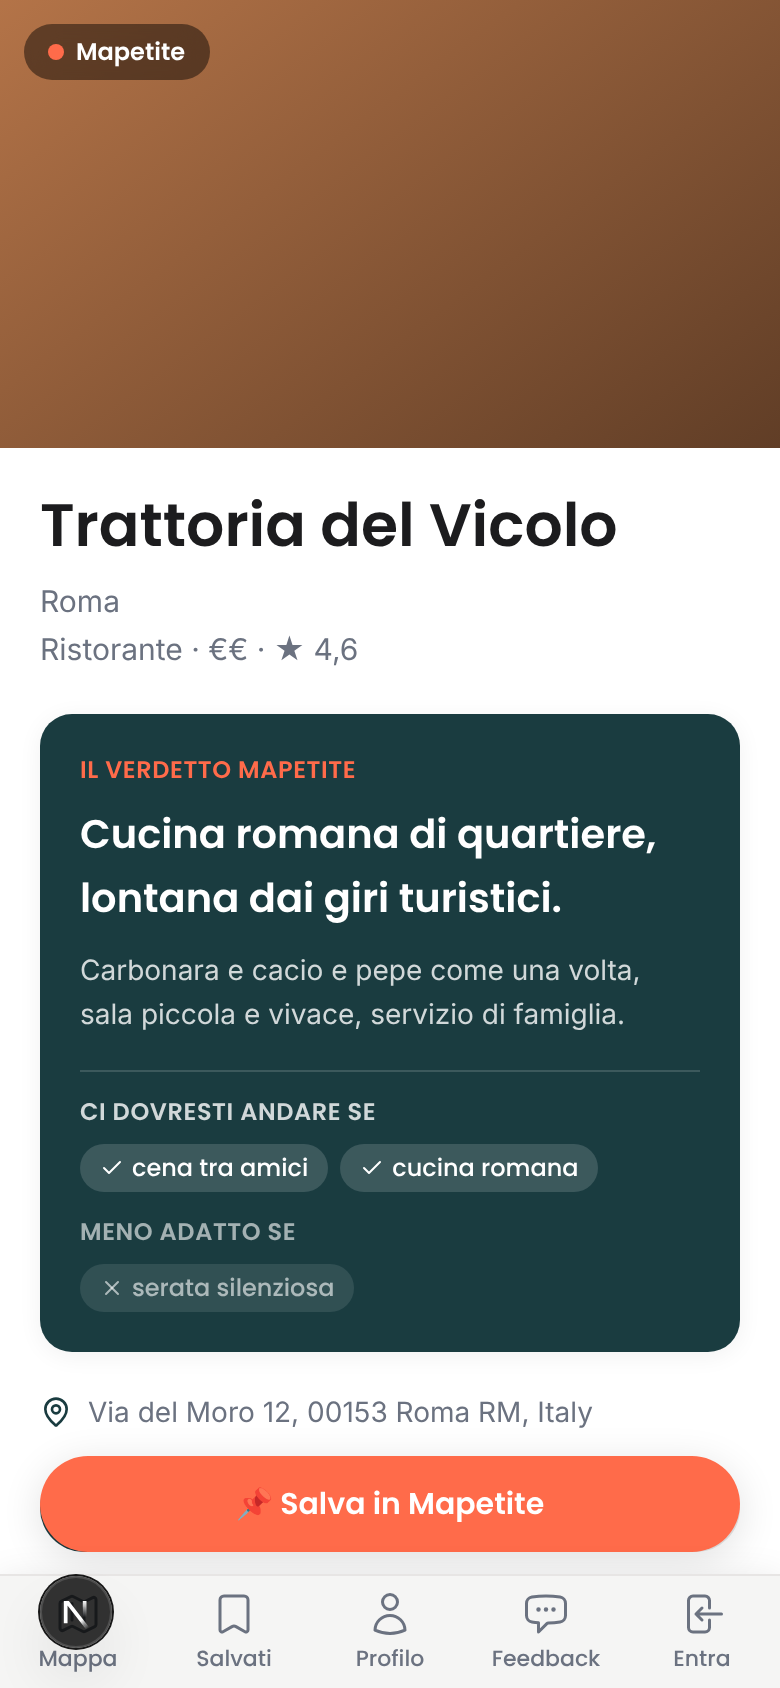
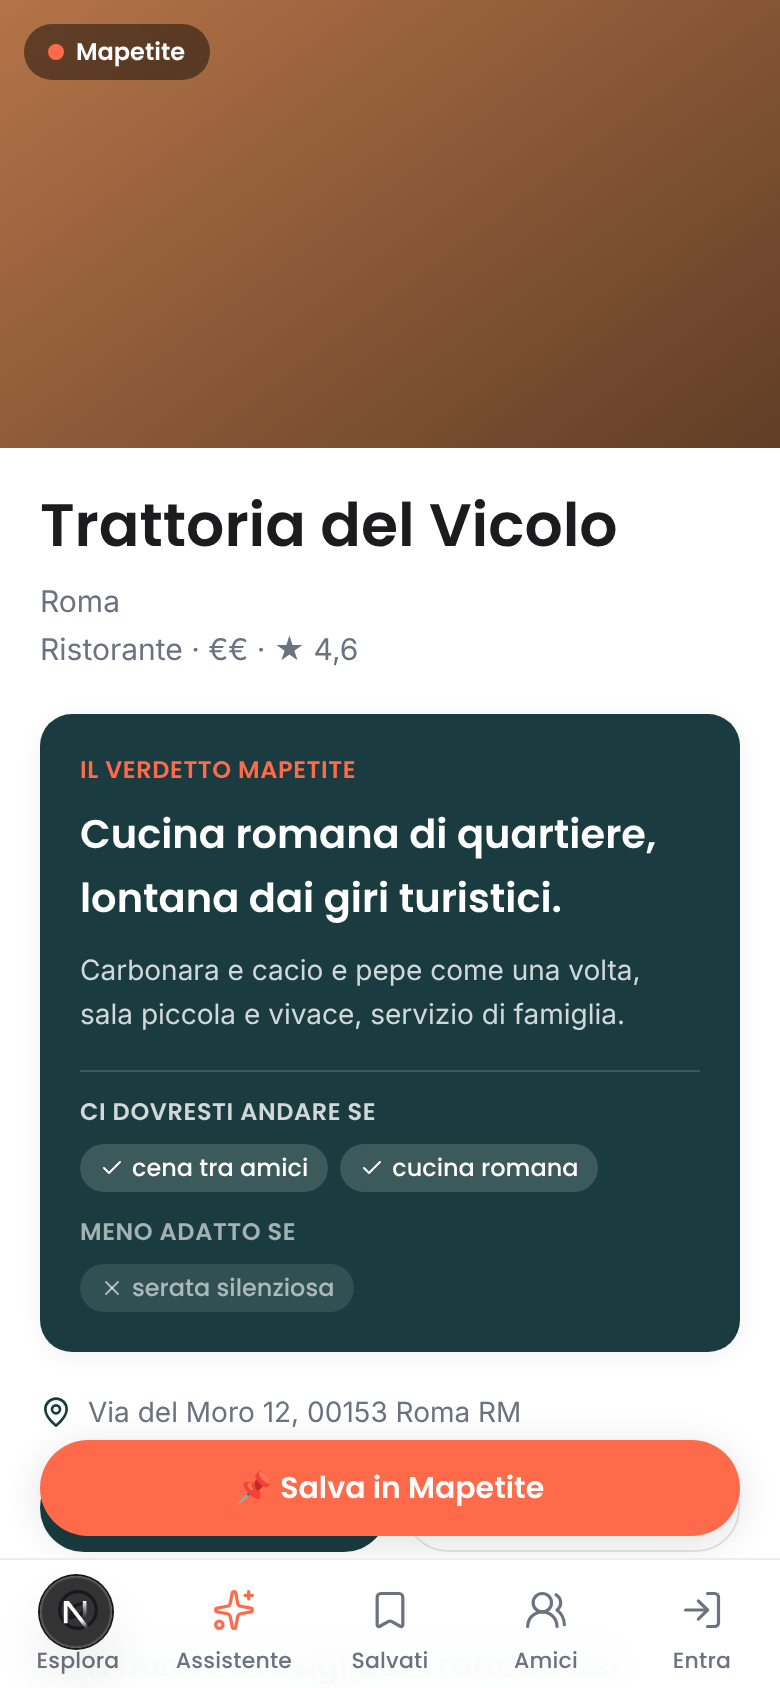
docs: backlog e screenshot della sessione del 16/10 mattina
Claude-Session: https://claude.ai/code/session_016dSXuWyLuFunpULUAvNMQo

Changed region(s): [[0.0308, 0.8318, 0.9538, 1.0]]

diff --git a/docs/autonomia/BACKLOG.md b/docs/autonomia/BACKLOG.md
@@ -8,7 +8,8 @@ L'ordine è la priorità. Lorenzo può riordinare o commentare qui o nelle PR.
 
 ## Avanzamento verso il 25/10
 **Piano fino al 25/10: `PIANO-25-OTTOBRE.md` (si segue quello, in ordine).**
-**In corso adesso:** sessione del 16/10 ore 05:00 (branch `claude/brave-mccarthy-xop6ic`): 5.5 liste di gruppo, 5.6c–d recensioni e reel degli utenti, 5.6b creator + 8.3–8.4 + 8b, 9.2 account demo e copione.
+**In corso adesso:** nessuna sessione (sessione del 16/10 ore 05 chiusa).
+**Aggiornato 16/10 alle 06:00 (sessione delle 05:00, 4 sviluppatori in parallelo).** Fatto: liste di gruppo con voto (5.5, migrazione applicata); "Dalla community Mapetite" nella scheda: recensioni degli utenti e reel collegati (5.6c–d, migrazione applicata; foto degli utenti rimandate: manca uno spazio file); creator con badge e liste da seguire (5.6b, migrazione applicata, nessun creator nominato ancora); posti in evidenza e trend di zona dimostrativi nel pannello del ristoratore (8.3, 8.4); pagina Premium "in arrivo" (8b); script dell'account demo e copione di 5 minuti (9.2: lo script va lanciato da Lorenzo, all'ambiente non è permesso scrivere utenti in produzione); link "Per i ristoratori" nel profilo. Manca per il 25/10: lanciare l'account demo, nominare 1–2 creator veri, controllo qualità 390/360 (6.6), prove su telefoni veri (9.3).
 **Aggiornato 16/10 alle 03:00 (sessione delle 00:05, 6 sviluppatori in parallelo; PR #46 unita, in produzione).** Fatto: Le mie prenotazioni (1.5b); scheda del locale stile Places con barra azioni fissa e amici (6.2); barra in basso Esplora/Assistente/Salvati/Amici/Profilo (6.4); Salva dall'assistente e frase capita mentre si scrive; eventi dedicati per assistente, prenotazioni e raccolte; diario dei posti provati (4.4, migrazione `visited_at` applicata); versione da computer della mappa (6.5). Seconda PR della notte: serata a tappe (1.2) e Sorprendimi fuori dai salvati (2.5). Terza PR: memoria dei gusti (1.4), incolla più link (3.2), invito tester con primo accesso in 3 schermate (9.1), "Ti è stato utile?" e domanda settimanale (7.6). Manca per il 25/10 (dal piano): 5.5 liste di gruppo, 5.6b–d creator/recensioni/reel,, 8.3–8.4 demo, 9.2 account demo e copione.
 **Aggiornato 15/10 alle 07:15 (sessione delle 05:00).** Fatto: card che non saltano quando arriva il verdetto; carosello che resta sul locale più adatto dopo il riordino; mappa che torna com'era chiudendo la scheda; tolte le pagine vecchie. **Ancora bloccati dall'ambiente (non da Lorenzo):** modificare `LORENZO.md` e leggere/scrivere il database di produzione (migrazione `events`).
 **Aggiornato 15/10 alle 01:00 (sessione delle 00:05).** Fatto: frasi già capite senza riaspettare l'AI; "trattoria a Monti" con 20 risultati del rione invece di 1; onboarding solo dopo la registrazione; link di Google Maps senza coordinate salvabili; verdetti che si rinnovano dopo 90 giorni; 5 decisioni aperte chiuse. **Bloccato dai permessi dell'ambiente (serve Lorenzo):** modificare `LORENZO.md`, leggere/scrivere il database di produzione (migrazione `events`), cancellare file (pagine vecchie).
